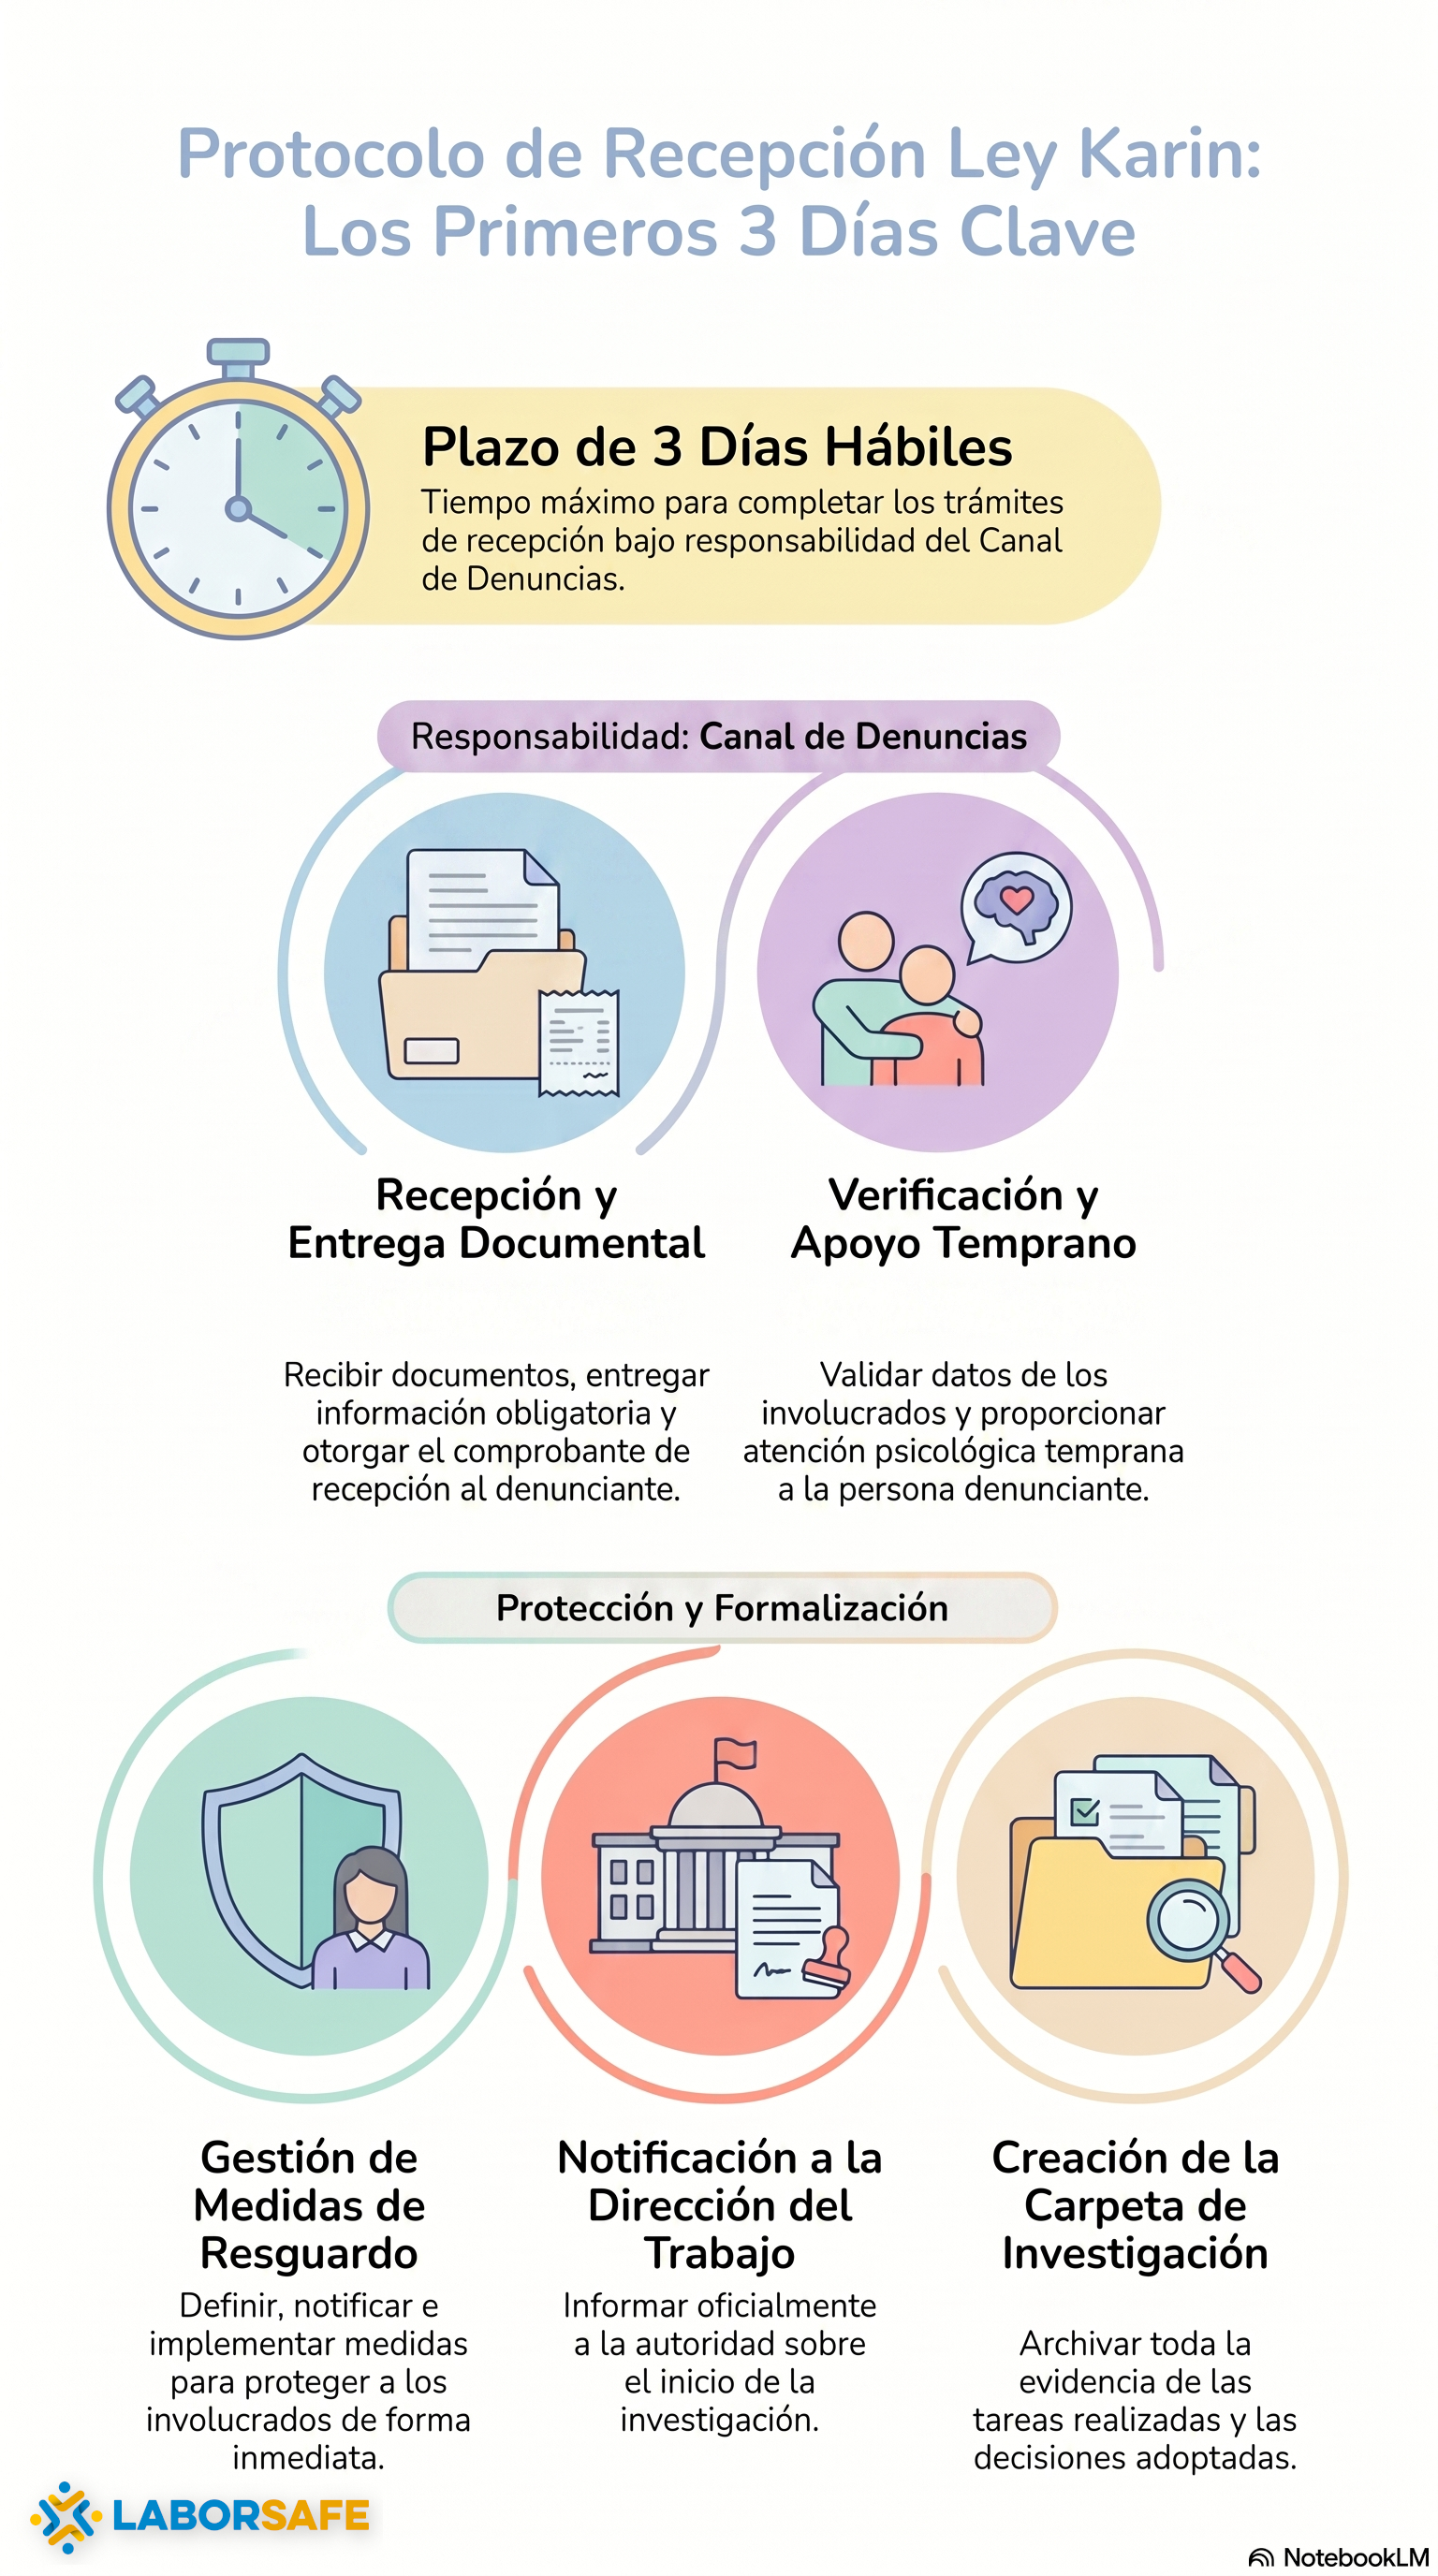
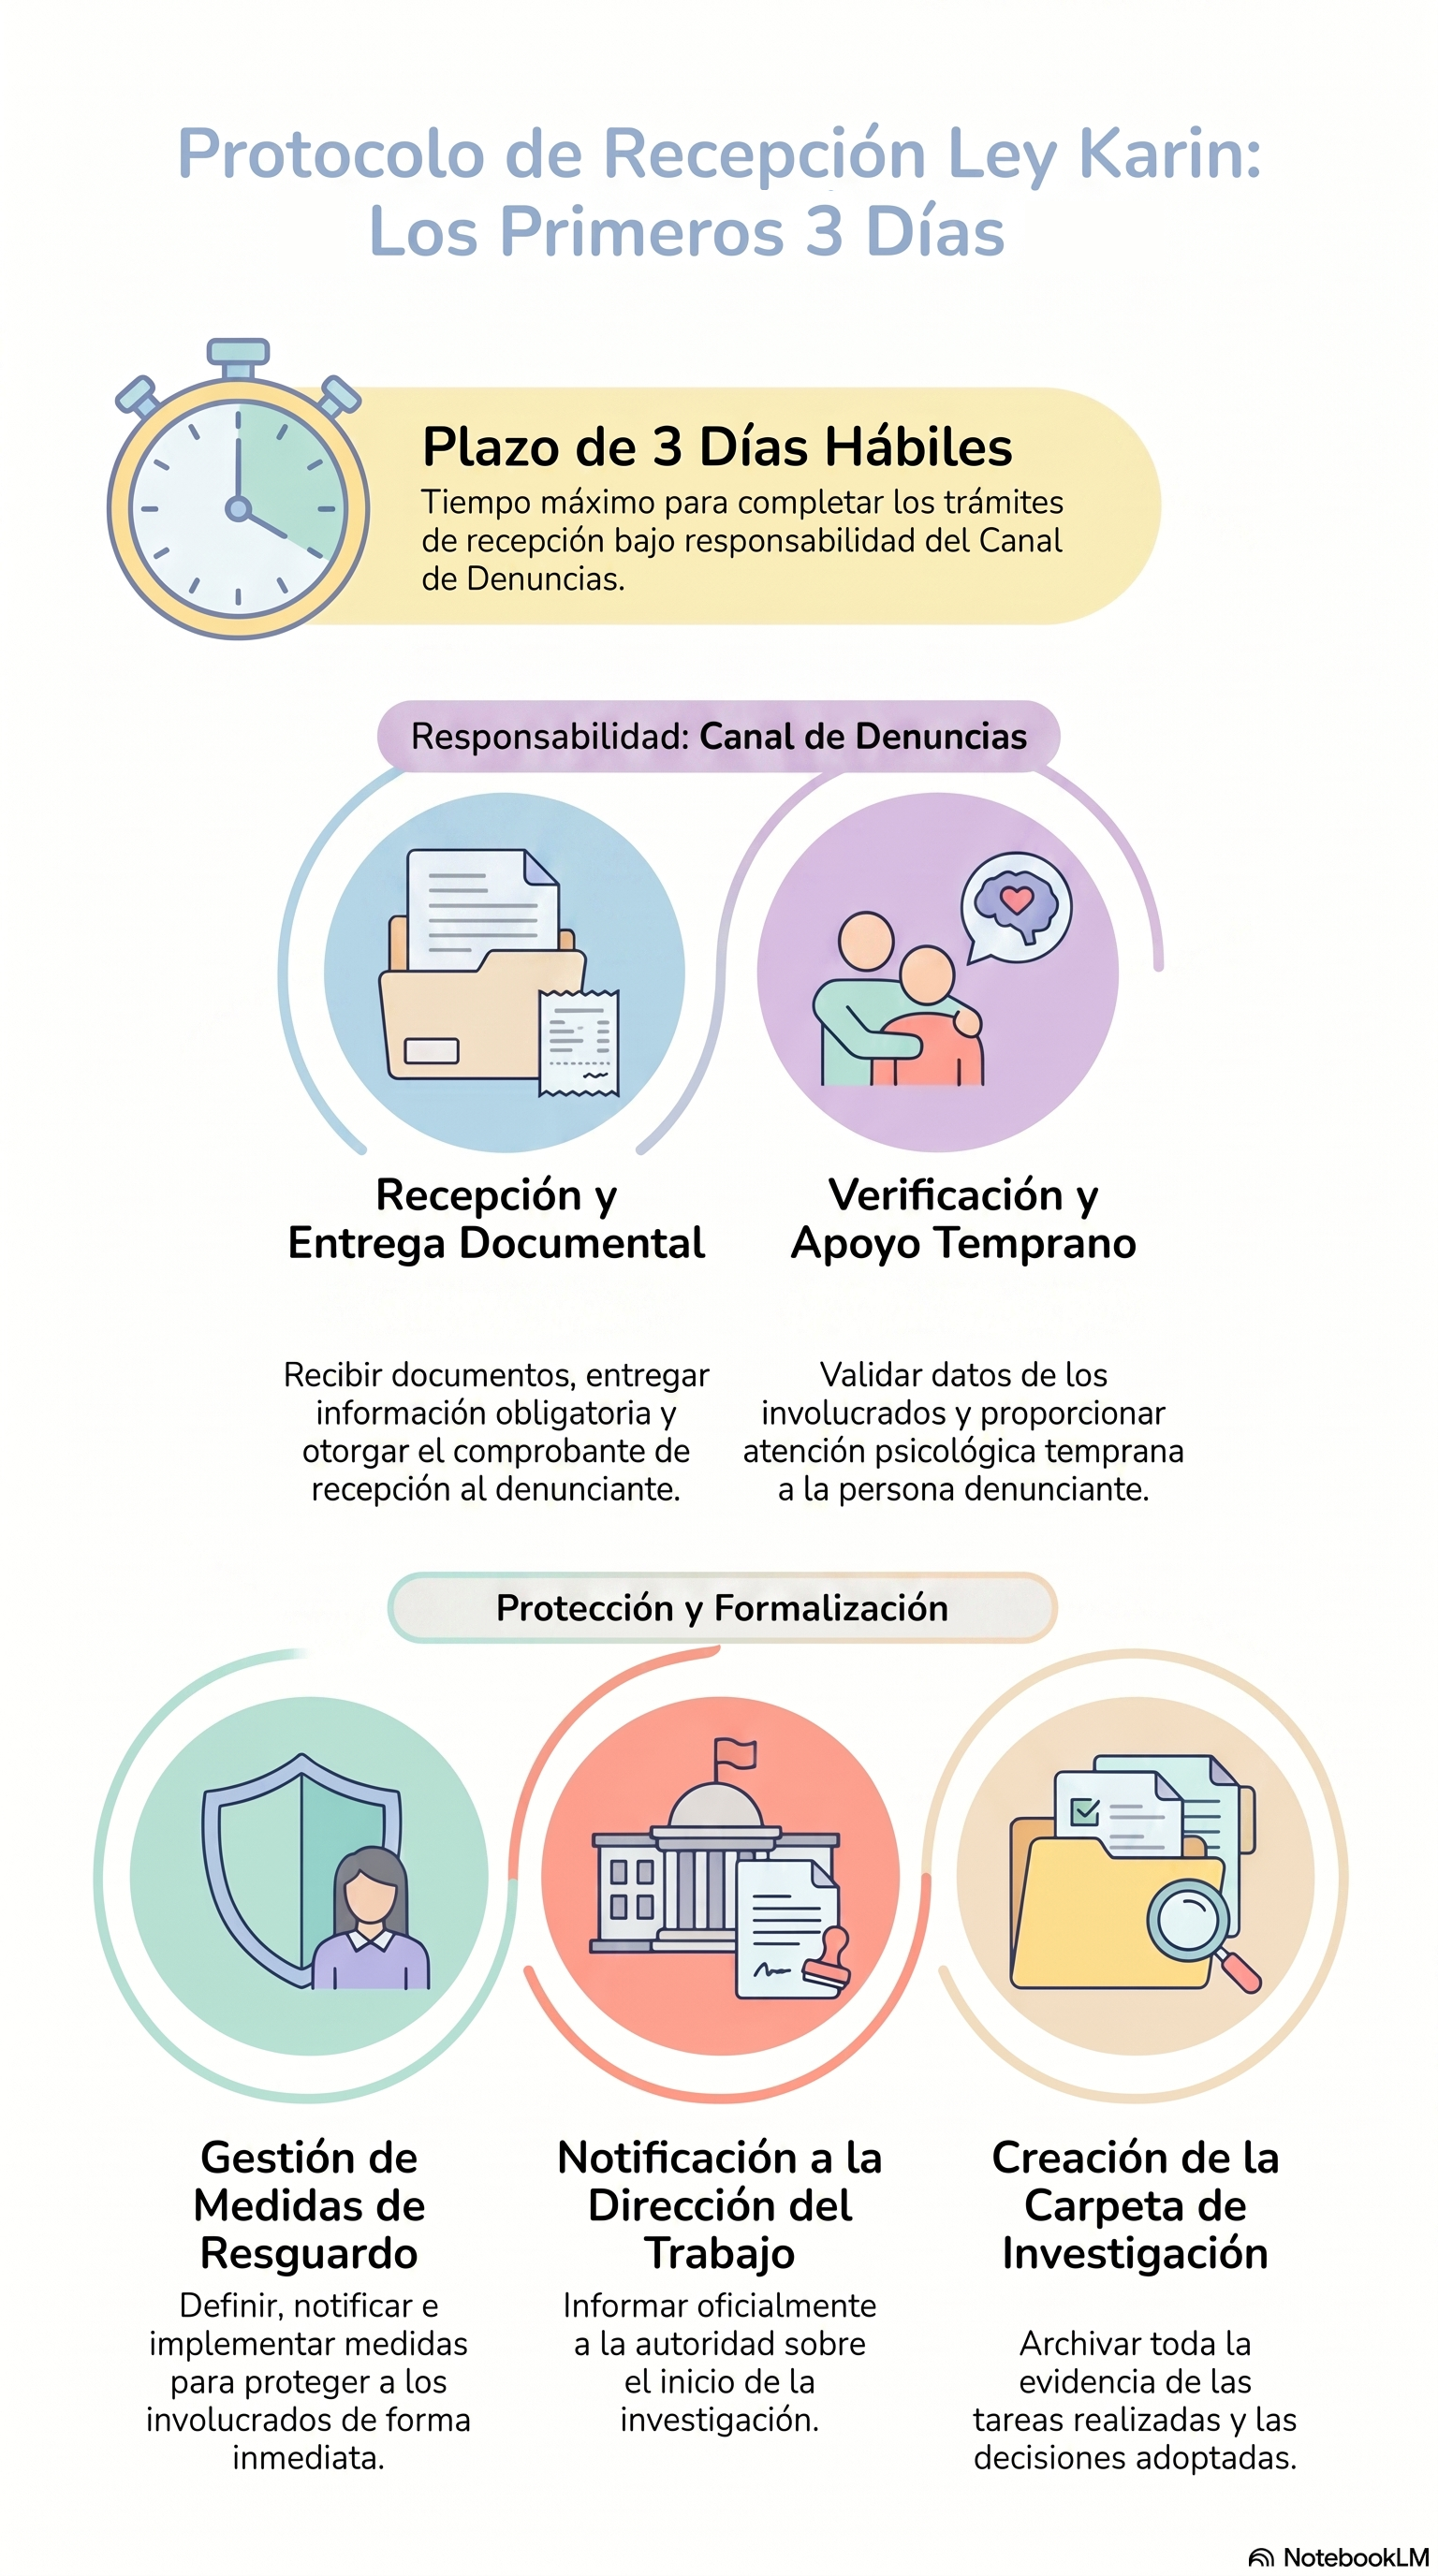
Version con una guia

Changed region(s): [[0.25, 0.0625, 0.7812, 0.125], [0.0312, 0.9688, 0.25, 1.0], [0.2188, 0.0938, 0.25, 0.125]]

diff --git a/app/controllers/aplicacion/home_controller.rb b/app/controllers/aplicacion/home_controller.rb
@@ -82,9 +82,20 @@ class Aplicacion::HomeController < ApplicationController
 	end
 
 	def laborsafe
-		@hoy	 		= Date.today
-		@hbls_30 	= CalFeriado.plazo_habil(@hoy, 30)
-		@crrds_30 	= CalFeriado.plazo_corrido(@hoy, 30)
+		@objeto = Empresa.new
+		@req = ComRequerimiento.new
+
+		render layout: 'public'
+	end
+
+	def guias
+		@p = params[:p]
+
+		if params[:p] == 'plzs'
+			@hoy	 		= Date.today
+			@hbls_30 	= CalFeriado.plazo_habil(@hoy, 30)
+			@crrds_30 	= CalFeriado.plazo_corrido(@hoy, 30)
+		end
 
 		@objeto = Empresa.new
 		@req = ComRequerimiento.new

diff --git a/config/routes.rb b/config/routes.rb
@@ -513,9 +513,10 @@ Rails.application.routes.draw do
   
   root 'aplicacion/home#index'
 
-  get 'laborsafe', to: 'aplicacion/home#laborsafe'
-  get 'equipo',    to: 'aplicacion/home#equipo'
-  get 'blog',      to: 'aplicacion/home#blog'
+  get 'laborsafe',  to: 'aplicacion/home#laborsafe'
+  get 'guias',      to: 'aplicacion/home#guias'
+  get 'equipo',     to: 'aplicacion/home#equipo'
+  get 'blog',       to: 'aplicacion/home#blog'
 
   # manejo formulario de registro de empresas
   post '/register', to: 'empresas#create', as: 'register'